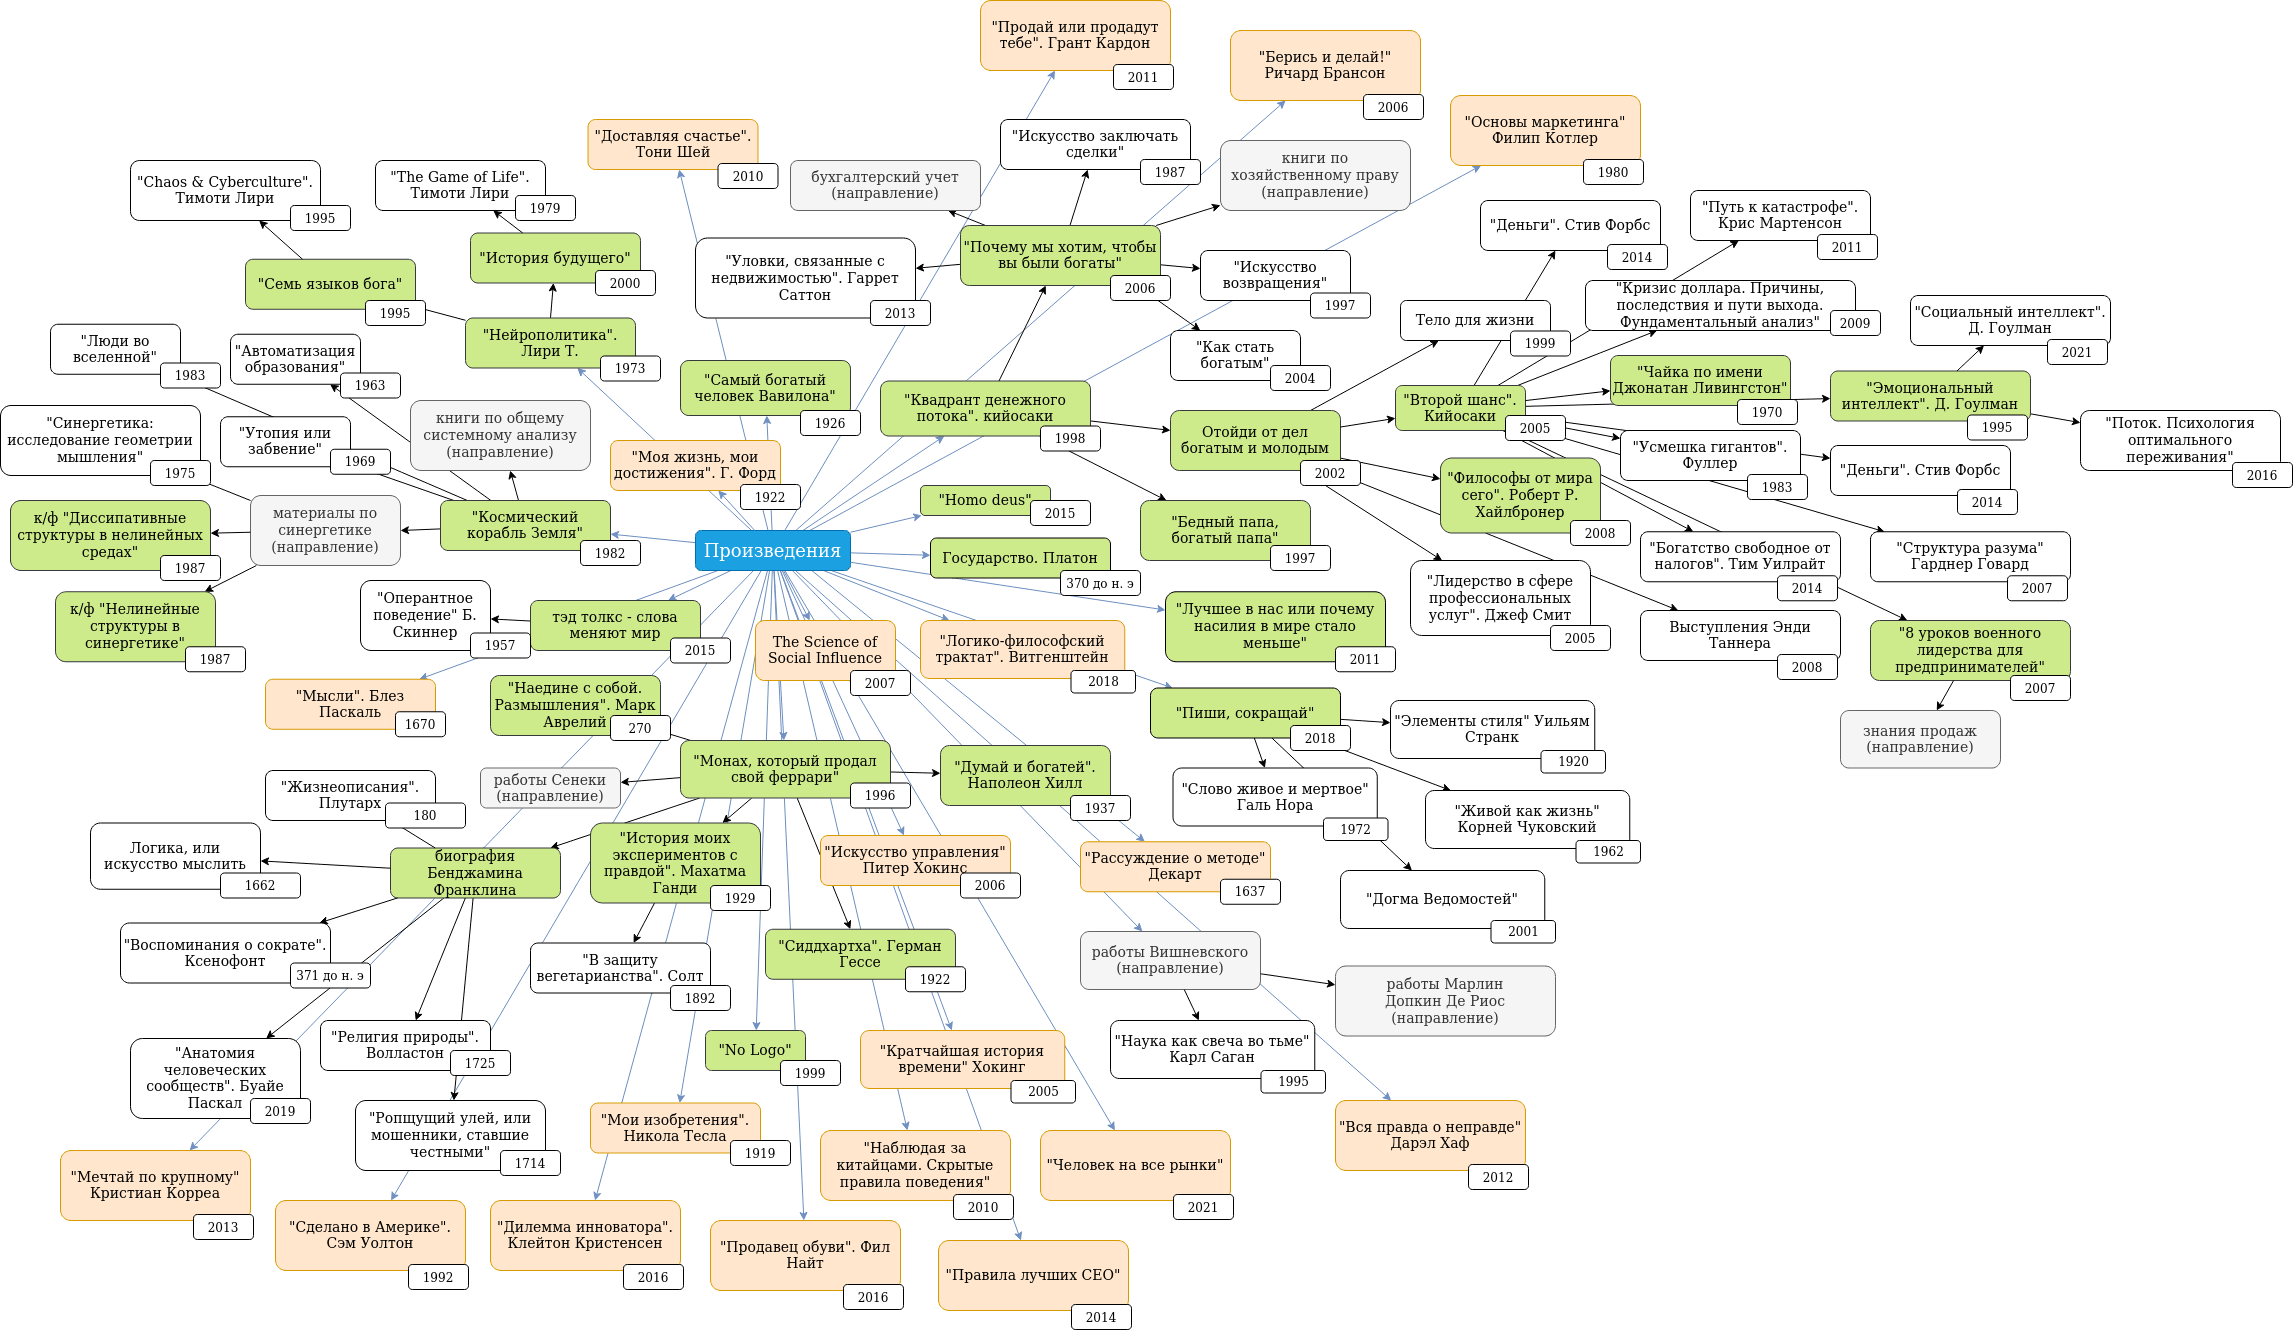
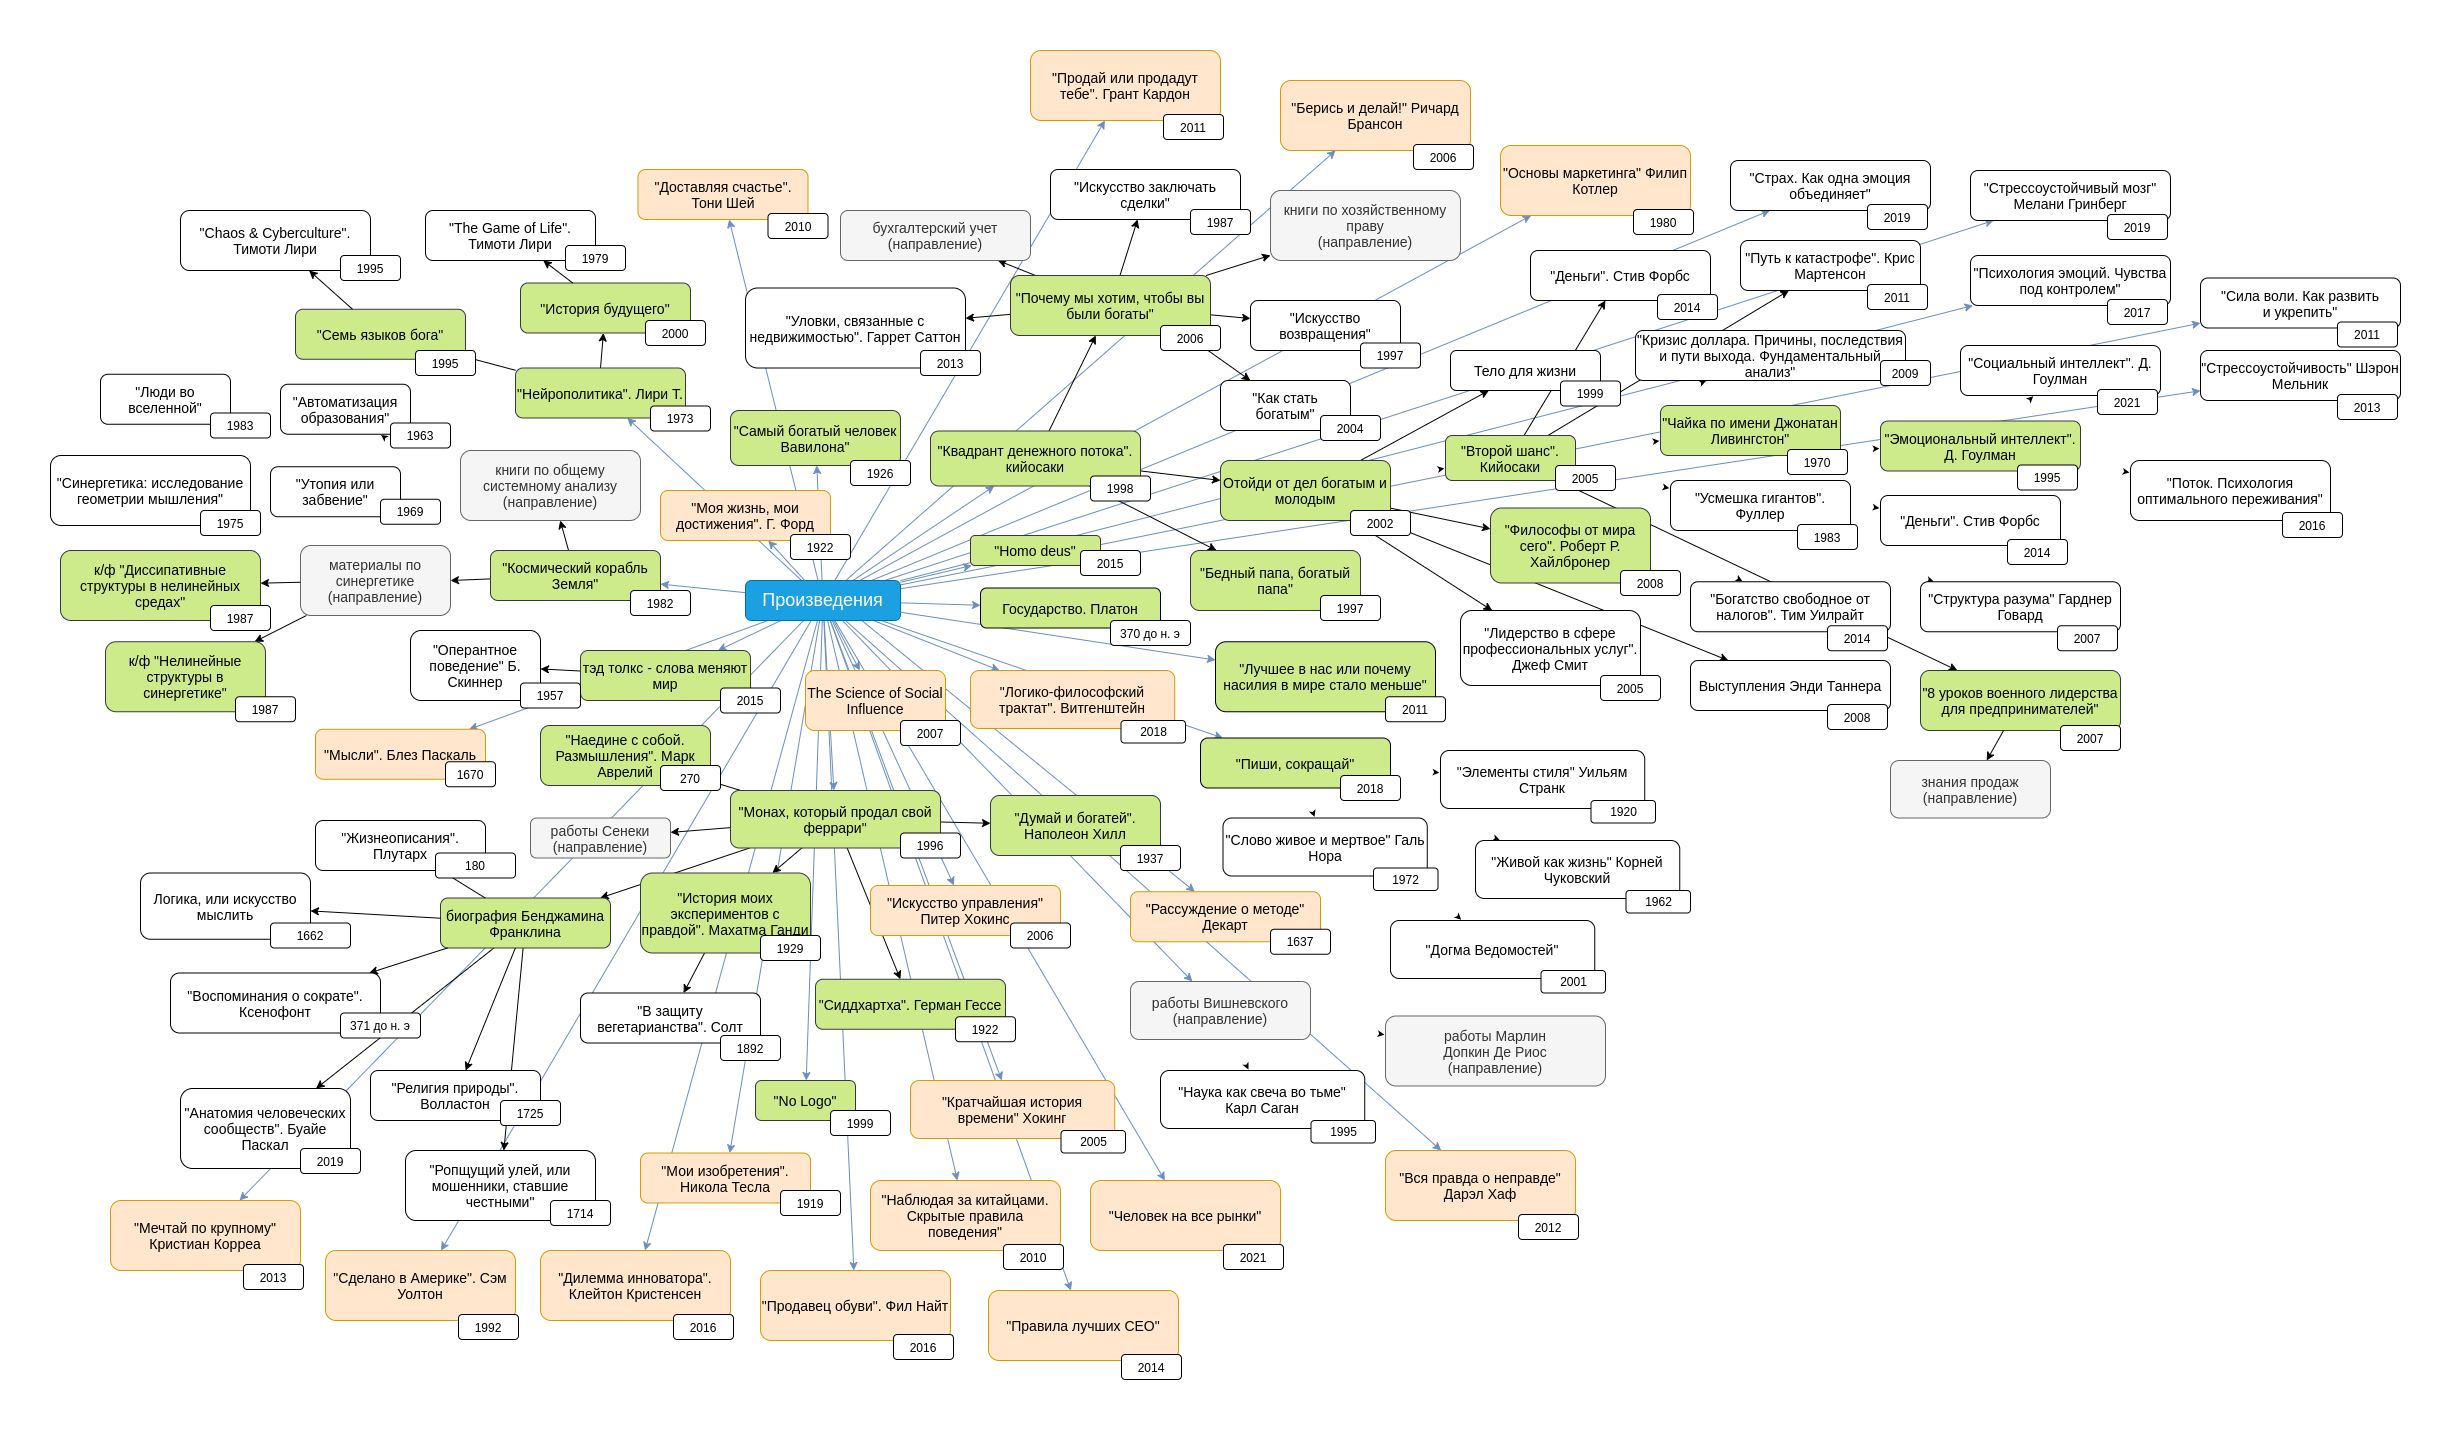
новые книги по контролю эмоций

Changed region(s): [[0.0, 0.0, 1.0, 1.0]]

diff --git a/README.md b/README.md
@@ -18,7 +18,7 @@
 	</tr>
 </table>
 
-Так как графический файл стал слишком большим (около 1 мб), draw.io его больше не переваривает для загрузки на Github. Поэтому последняя версия будет в файле books.drawio. Открыть можно через [Drawio-Desktop](https://github.com/jgraph/drawio-desktop/releases/tag/v16.5.1).
+Исходник диаграммы находится в файле books.drawio, открыть можно через [Drawio-Desktop](https://github.com/jgraph/drawio-desktop/releases/tag/v16.5.1).
 
 <table>
 	<tr>
